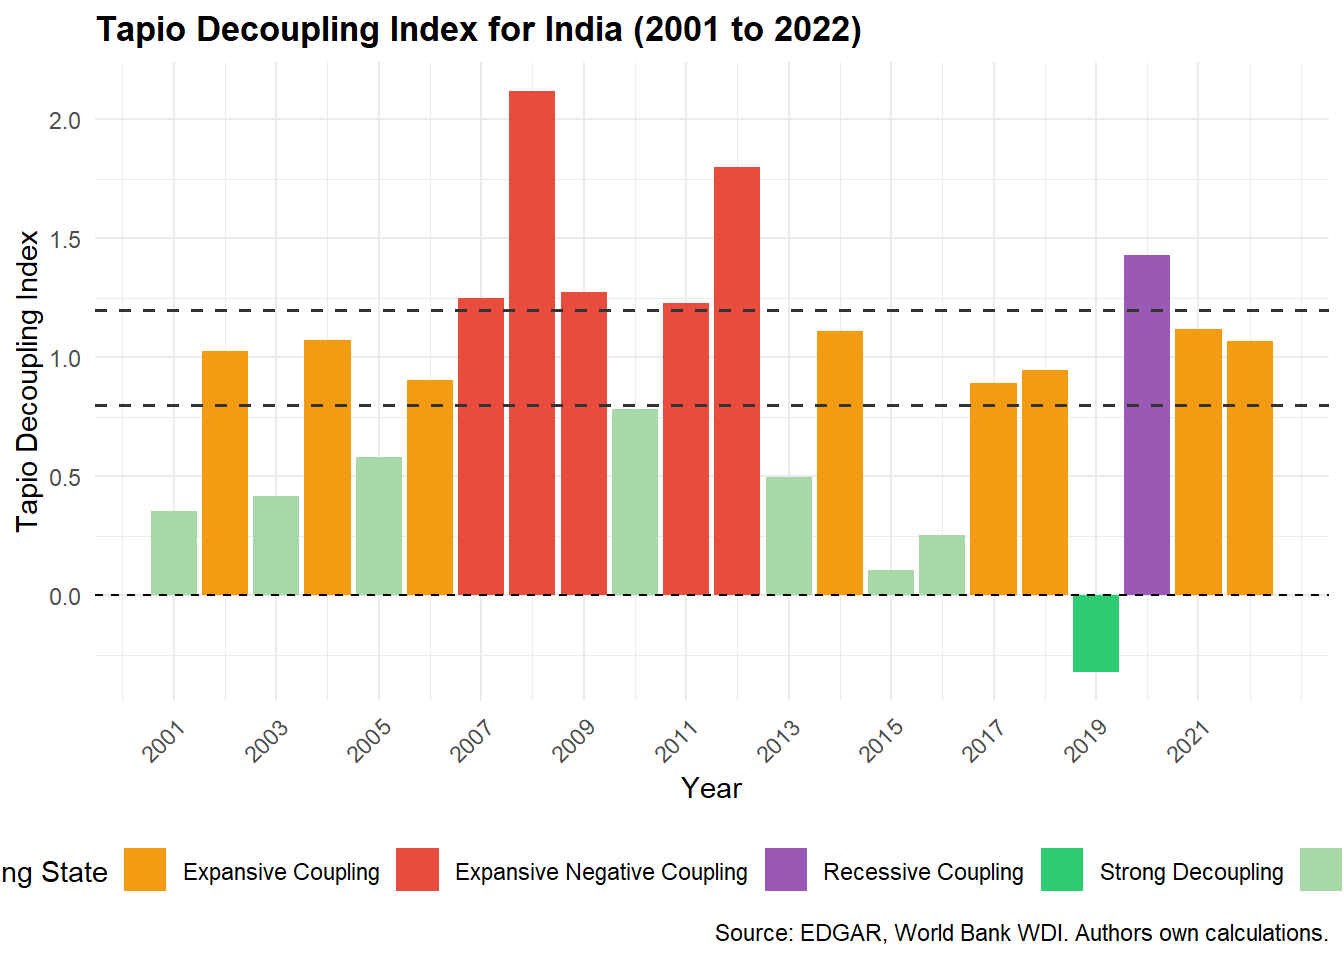
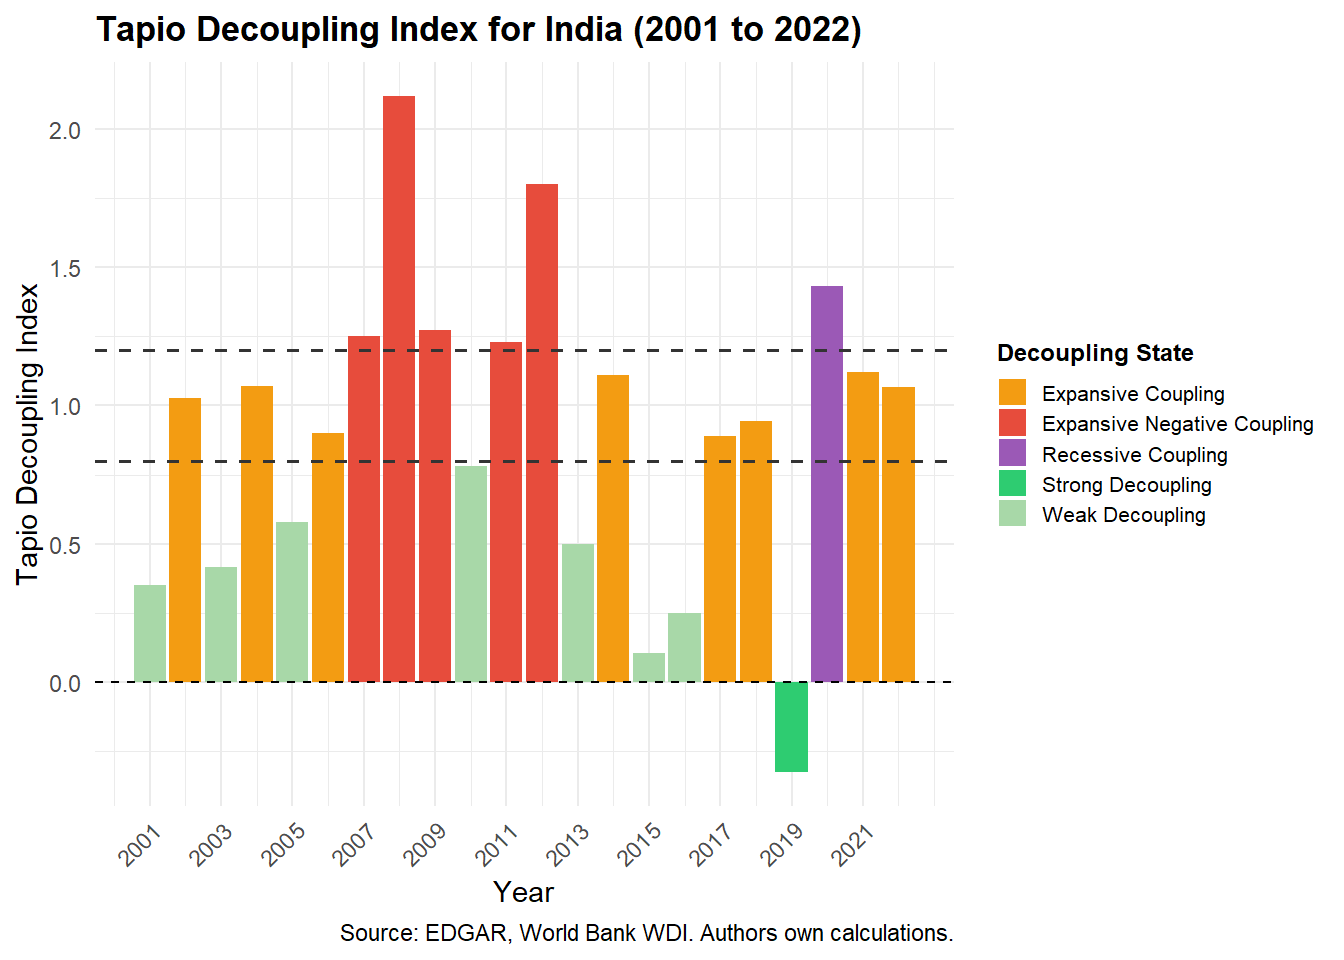
Fix Tapio chart legend position and sizing

diff --git a/docs/report/index.html b/docs/report/index.html
@@ -1048,41 +1048,44 @@ Figure&nbsp;1: Tapio Decoupling Index for India (2001 to 2022)
 <span id="cb1-274"><a href="#cb1-274" aria-hidden="true" tabindex="-1"></a>  <span class="fu">theme_minimal</span>() <span class="sc">+</span></span>
 <span id="cb1-275"><a href="#cb1-275" aria-hidden="true" tabindex="-1"></a>  <span class="fu">theme</span>(</span>
 <span id="cb1-276"><a href="#cb1-276" aria-hidden="true" tabindex="-1"></a>    <span class="at">plot.title =</span> <span class="fu">element_text</span>(<span class="at">face =</span> <span class="st">"bold"</span>, <span class="at">size =</span> <span class="dv">13</span>),</span>
-<span id="cb1-277"><a href="#cb1-277" aria-hidden="true" tabindex="-1"></a>    <span class="at">legend.position =</span> <span class="st">"bottom"</span>,</span>
-<span id="cb1-278"><a href="#cb1-278" aria-hidden="true" tabindex="-1"></a>    <span class="at">axis.text.x =</span> <span class="fu">element_text</span>(<span class="at">angle =</span> <span class="dv">45</span>, <span class="at">hjust =</span> <span class="dv">1</span>)</span>
-<span id="cb1-279"><a href="#cb1-279" aria-hidden="true" tabindex="-1"></a>  )</span>
-<span id="cb1-280"><a href="#cb1-280" aria-hidden="true" tabindex="-1"></a><span class="in">```</span></span>
-<span id="cb1-281"><a href="#cb1-281" aria-hidden="true" tabindex="-1"></a></span>
-<span id="cb1-282"><a href="#cb1-282" aria-hidden="true" tabindex="-1"></a>Figure 1 presents the year by year Tapio decoupling index values and </span>
-<span id="cb1-283"><a href="#cb1-283" aria-hidden="true" tabindex="-1"></a>their corresponding classification for India over the study period </span>
-<span id="cb1-284"><a href="#cb1-284" aria-hidden="true" tabindex="-1"></a>2001 to 2022. The results reveal a highly inconsistent decoupling </span>
-<span id="cb1-285"><a href="#cb1-285" aria-hidden="true" tabindex="-1"></a>trajectory, with India oscillating between weak decoupling and </span>
-<span id="cb1-286"><a href="#cb1-286" aria-hidden="true" tabindex="-1"></a>expansive negative coupling across the two decades studied.</span>
-<span id="cb1-287"><a href="#cb1-287" aria-hidden="true" tabindex="-1"></a></span>
-<span id="cb1-288"><a href="#cb1-288" aria-hidden="true" tabindex="-1"></a>During the early study period from 2001 to 2006, India predominantly </span>
-<span id="cb1-289"><a href="#cb1-289" aria-hidden="true" tabindex="-1"></a>exhibited weak decoupling, suggesting that GDP growth was outpacing </span>
-<span id="cb1-290"><a href="#cb1-290" aria-hidden="true" tabindex="-1"></a>emission growth during this phase. However, the period from 2007 to </span>
-<span id="cb1-291"><a href="#cb1-291" aria-hidden="true" tabindex="-1"></a>2012 saw a marked deterioration, with four of six years classified as </span>
-<span id="cb1-292"><a href="#cb1-292" aria-hidden="true" tabindex="-1"></a>expansive negative coupling, indicating that emissions were growing </span>
-<span id="cb1-293"><a href="#cb1-293" aria-hidden="true" tabindex="-1"></a>faster than the economy. This coincides with India's rapid </span>
-<span id="cb1-294"><a href="#cb1-294" aria-hidden="true" tabindex="-1"></a>industrialisation and significant expansion of coal based power </span>
-<span id="cb1-295"><a href="#cb1-295" aria-hidden="true" tabindex="-1"></a>generation during this period.</span>
-<span id="cb1-296"><a href="#cb1-296" aria-hidden="true" tabindex="-1"></a></span>
-<span id="cb1-297"><a href="#cb1-297" aria-hidden="true" tabindex="-1"></a>A partial recovery toward weak decoupling was observed between 2013 </span>
-<span id="cb1-298"><a href="#cb1-298" aria-hidden="true" tabindex="-1"></a>and 2016, potentially reflecting early investments in renewable energy </span>
-<span id="cb1-299"><a href="#cb1-299" aria-hidden="true" tabindex="-1"></a>capacity and improvements in energy efficiency. The single instance of </span>
-<span id="cb1-300"><a href="#cb1-300" aria-hidden="true" tabindex="-1"></a>strong decoupling occurred in 2019, the only year in the entire study </span>
-<span id="cb1-301"><a href="#cb1-301" aria-hidden="true" tabindex="-1"></a>period where CO2 emissions declined while GDP continued to grow. This </span>
-<span id="cb1-302"><a href="#cb1-302" aria-hidden="true" tabindex="-1"></a>finding warrants closer examination in the LMDI decomposition analysis </span>
-<span id="cb1-303"><a href="#cb1-303" aria-hidden="true" tabindex="-1"></a>to identify its underlying drivers.</span>
-<span id="cb1-304"><a href="#cb1-304" aria-hidden="true" tabindex="-1"></a></span>
-<span id="cb1-305"><a href="#cb1-305" aria-hidden="true" tabindex="-1"></a>The year 2020 recorded recessive coupling, where both GDP and emissions </span>
-<span id="cb1-306"><a href="#cb1-306" aria-hidden="true" tabindex="-1"></a>fell simultaneously as a consequence of the COVID-19 pandemic induced </span>
-<span id="cb1-307"><a href="#cb1-307" aria-hidden="true" tabindex="-1"></a>economic contraction. This does not represent genuine environmental </span>
-<span id="cb1-308"><a href="#cb1-308" aria-hidden="true" tabindex="-1"></a>progress and must be interpreted with caution. The post pandemic </span>
-<span id="cb1-309"><a href="#cb1-309" aria-hidden="true" tabindex="-1"></a>recovery in 2021 and 2022 returned India to expansive coupling, </span>
-<span id="cb1-310"><a href="#cb1-310" aria-hidden="true" tabindex="-1"></a>suggesting that emission reductions observed during the pandemic were </span>
-<span id="cb1-311"><a href="#cb1-311" aria-hidden="true" tabindex="-1"></a>temporary rather than structural.</span>
+<span id="cb1-277"><a href="#cb1-277" aria-hidden="true" tabindex="-1"></a>    <span class="at">legend.position =</span> <span class="st">"right"</span>,</span>
+<span id="cb1-278"><a href="#cb1-278" aria-hidden="true" tabindex="-1"></a>    <span class="at">legend.text =</span> <span class="fu">element_text</span>(<span class="at">size =</span> <span class="dv">8</span>),</span>
+<span id="cb1-279"><a href="#cb1-279" aria-hidden="true" tabindex="-1"></a>    <span class="at">legend.key.size =</span> <span class="fu">unit</span>(<span class="fl">0.4</span>, <span class="st">"cm"</span>),</span>
+<span id="cb1-280"><a href="#cb1-280" aria-hidden="true" tabindex="-1"></a>    <span class="at">legend.title =</span> <span class="fu">element_text</span>(<span class="at">size =</span> <span class="dv">9</span>, <span class="at">face =</span> <span class="st">"bold"</span>),</span>
+<span id="cb1-281"><a href="#cb1-281" aria-hidden="true" tabindex="-1"></a>    <span class="at">axis.text.x =</span> <span class="fu">element_text</span>(<span class="at">angle =</span> <span class="dv">45</span>, <span class="at">hjust =</span> <span class="dv">1</span>)</span>
+<span id="cb1-282"><a href="#cb1-282" aria-hidden="true" tabindex="-1"></a>  )</span>
+<span id="cb1-283"><a href="#cb1-283" aria-hidden="true" tabindex="-1"></a><span class="in">```</span></span>
+<span id="cb1-284"><a href="#cb1-284" aria-hidden="true" tabindex="-1"></a></span>
+<span id="cb1-285"><a href="#cb1-285" aria-hidden="true" tabindex="-1"></a>Figure 1 presents the year by year Tapio decoupling index values and </span>
+<span id="cb1-286"><a href="#cb1-286" aria-hidden="true" tabindex="-1"></a>their corresponding classification for India over the study period </span>
+<span id="cb1-287"><a href="#cb1-287" aria-hidden="true" tabindex="-1"></a>2001 to 2022. The results reveal a highly inconsistent decoupling </span>
+<span id="cb1-288"><a href="#cb1-288" aria-hidden="true" tabindex="-1"></a>trajectory, with India oscillating between weak decoupling and </span>
+<span id="cb1-289"><a href="#cb1-289" aria-hidden="true" tabindex="-1"></a>expansive negative coupling across the two decades studied.</span>
+<span id="cb1-290"><a href="#cb1-290" aria-hidden="true" tabindex="-1"></a></span>
+<span id="cb1-291"><a href="#cb1-291" aria-hidden="true" tabindex="-1"></a>During the early study period from 2001 to 2006, India predominantly </span>
+<span id="cb1-292"><a href="#cb1-292" aria-hidden="true" tabindex="-1"></a>exhibited weak decoupling, suggesting that GDP growth was outpacing </span>
+<span id="cb1-293"><a href="#cb1-293" aria-hidden="true" tabindex="-1"></a>emission growth during this phase. However, the period from 2007 to </span>
+<span id="cb1-294"><a href="#cb1-294" aria-hidden="true" tabindex="-1"></a>2012 saw a marked deterioration, with four of six years classified as </span>
+<span id="cb1-295"><a href="#cb1-295" aria-hidden="true" tabindex="-1"></a>expansive negative coupling, indicating that emissions were growing </span>
+<span id="cb1-296"><a href="#cb1-296" aria-hidden="true" tabindex="-1"></a>faster than the economy. This coincides with India's rapid </span>
+<span id="cb1-297"><a href="#cb1-297" aria-hidden="true" tabindex="-1"></a>industrialisation and significant expansion of coal based power </span>
+<span id="cb1-298"><a href="#cb1-298" aria-hidden="true" tabindex="-1"></a>generation during this period.</span>
+<span id="cb1-299"><a href="#cb1-299" aria-hidden="true" tabindex="-1"></a></span>
+<span id="cb1-300"><a href="#cb1-300" aria-hidden="true" tabindex="-1"></a>A partial recovery toward weak decoupling was observed between 2013 </span>
+<span id="cb1-301"><a href="#cb1-301" aria-hidden="true" tabindex="-1"></a>and 2016, potentially reflecting early investments in renewable energy </span>
+<span id="cb1-302"><a href="#cb1-302" aria-hidden="true" tabindex="-1"></a>capacity and improvements in energy efficiency. The single instance of </span>
+<span id="cb1-303"><a href="#cb1-303" aria-hidden="true" tabindex="-1"></a>strong decoupling occurred in 2019, the only year in the entire study </span>
+<span id="cb1-304"><a href="#cb1-304" aria-hidden="true" tabindex="-1"></a>period where CO2 emissions declined while GDP continued to grow. This </span>
+<span id="cb1-305"><a href="#cb1-305" aria-hidden="true" tabindex="-1"></a>finding warrants closer examination in the LMDI decomposition analysis </span>
+<span id="cb1-306"><a href="#cb1-306" aria-hidden="true" tabindex="-1"></a>to identify its underlying drivers.</span>
+<span id="cb1-307"><a href="#cb1-307" aria-hidden="true" tabindex="-1"></a></span>
+<span id="cb1-308"><a href="#cb1-308" aria-hidden="true" tabindex="-1"></a>The year 2020 recorded recessive coupling, where both GDP and emissions </span>
+<span id="cb1-309"><a href="#cb1-309" aria-hidden="true" tabindex="-1"></a>fell simultaneously as a consequence of the COVID-19 pandemic induced </span>
+<span id="cb1-310"><a href="#cb1-310" aria-hidden="true" tabindex="-1"></a>economic contraction. This does not represent genuine environmental </span>
+<span id="cb1-311"><a href="#cb1-311" aria-hidden="true" tabindex="-1"></a>progress and must be interpreted with caution. The post pandemic </span>
+<span id="cb1-312"><a href="#cb1-312" aria-hidden="true" tabindex="-1"></a>recovery in 2021 and 2022 returned India to expansive coupling, </span>
+<span id="cb1-313"><a href="#cb1-313" aria-hidden="true" tabindex="-1"></a>suggesting that emission reductions observed during the pandemic were </span>
+<span id="cb1-314"><a href="#cb1-314" aria-hidden="true" tabindex="-1"></a>temporary rather than structural.</span>
 </code></pre></div><button title="Copy to Clipboard" class="code-copy-button" data-in-quarto-modal=""><i class="bi"></i></button></div>
 </div></div></div></div></div>
 </div> <!-- /content -->